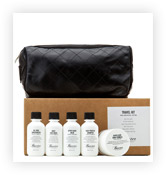
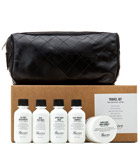
вставила в item картинки без эффекта тени

diff --git a/item.html b/item.html
@@ -59,10 +59,10 @@
       </div>
       <div class="product-photo clearfix">
         <figure class="product-photo-content">
-          <img src="img/product-photo-content-main-item.jpg" width="486" height="524" alt="">
-          <img src="img/product-photo-content-item-1.jpg" width="166" height="175" alt="">
-          <img src="img/product-photo-content-item-2.jpg" width="166" height="175" alt="">
-          <img src="img/product-photo-content-item-3.jpg" width="166" height="175" alt="">
+          <img src="img/product-photo-content-main-item.jpg" width="460" height="498" alt="">
+          <img src="img/product-photo-content-item-1.jpg" width="140" height="149" alt="">
+          <img src="img/product-photo-content-item-2.jpg" width="140" height="149" alt="">
+          <img src="img/product-photo-content-item-3.jpg" width="140" height="149" alt="">
         </figure>
       </div>
       <div class="product-description clearfix">

diff --git a/css/style.css b/css/style.css
@@ -140,6 +140,8 @@ body {
   float: left;
   width: 780px;
   min-height: 70px;
+  background: rgba(192, 57, 43, 0.9);
+  margin-bottom: 60px;
 }
 
 .product-photo {
@@ -162,8 +164,8 @@ body {
 }
 
 h1{
-  display: inline-block;
   float: left;
+  background: rgba(192, 57, 43, 0.9);
 }
 
 
